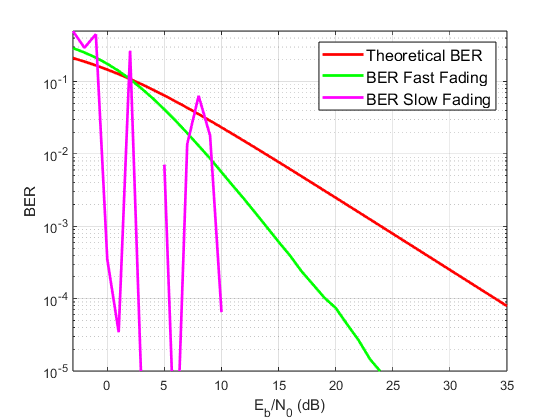
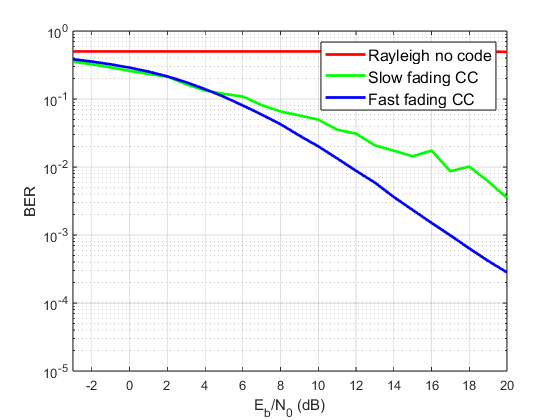
Update assignment 5 solutions

diff --git a/Aula05-CodigosCorretoresDeErrosERetransmissao29-07/Assignment5.m b/Aula05-CodigosCorretoresDeErrosERetransmissao29-07/Assignment5.m
@@ -12,7 +12,12 @@ Eb = 1;          % energia de bit
 
 %-------------------------------------------------------------------------
 SNR = 10.^(SNRdB/10);   % SNR linear
+ber_rayleigh = zeros(1, length(SNR));
+ber_no_retx = zeros(1, length(SNR));
+ber_fast = zeros(1, length(SNR));
+fer_rayleigh = zeros(1, length(SNR));
 fer_no_retx = zeros(1, length(SNR));
+fer_fast = zeros(1, length(SNR));
 fer_one_retx = zeros(1, length(SNR));
 fer_two_retx = zeros(1, length(SNR));
 nn = (randn(1, K) + 1i*randn(1, K)); % ruído para um bloco
@@ -26,9 +31,14 @@ for i = 1:length(SNR)
     N0 = Eb / SNR(i);  % SNR = Eb/N0 ==> N0 = Eb/SNR
     
     % Inicializa contadores de erro
-    errors_no_retx = 0;
-    errors_one_retx = 0;
-    errors_two_retx = 0;
+    bit_errors_rayleigh = 0;
+    bit_errors_slow = 0;
+    bit_errors_fast = 0;
+    frame_errors_rayleigh = 0;
+    frame_errors_no_retx = 0;
+    frame_errors_fast = 0;
+    frame_errors_one_retx = 0;
+    frame_errors_two_retx = 0;
     
     for frame = 1:nFrames
         % Gera sequência aleatória de bits
@@ -40,64 +50,111 @@ for i = 1:length(SNR)
         x_cc = 2 * m_cc - 1; % BPSK
         
         % Sem retransmissões
+        h = sqrt(1/2) * (randn(1, length(m)) + 1i*randn(1, length(m))); % Canal de desvanecimento lento
+        x = 2 * m - 1; %BPSK
+        n = sqrt((0.5/R) * N0) * (randn(1, length(m)) + 1i*randn(1, length(m))); % Cria array base do ruído
+        y = h .* x + n;
+        y_eq = y ./ h; % Equalização
+        w = real(y_eq > 0);
+        frame_bit_errors_rayleigh = sum(w ~= m);
+        if frame_bit_errors_rayleigh > 0
+            frame_errors_rayleigh = frame_errors_rayleigh + 1;
+            bit_errors_rayleigh = bit_errors_rayleigh + frame_errors_rayleigh;
+        end
+
+        % Sem retransmissões
         h_slow = sqrt(1/2) * (randn + 1i*randn); % Canal de desvanecimento lento
         y_slow = h_slow * x_cc + n_cc;
         y_slow_eq = y_slow / h_slow; % Equalização
         w_slow = real(y_slow_eq > 0);
         decodedData_slow = vitdec(w_slow, trellis, tbdepth, 'trunc', 'hard');
-        err_slow = sum(decodedData_slow ~= m);
-        if err_slow > 0
-            errors_no_retx = errors_no_retx + 1;
+        frame_bit_errors = sum(decodedData_slow ~= m);
+        if frame_bit_errors > 0
+            frame_errors_no_retx = frame_errors_no_retx + 1;
+            bit_errors_slow = bit_errors_slow + frame_bit_errors;
         end
         
-        % Com possibilidade de até uma retransmissão (HARQ simples)
-        for attempt = 1:2
-            h_slow = sqrt(1/2) * (randn + 1i*randn);
-            y_slow = h_slow * x_cc + n_cc;
-            y_slow_eq = y_slow / h_slow;
-            w_slow = real(y_slow_eq > 0);
-            decodedData_slow = vitdec(w_slow, trellis, tbdepth, 'trunc', 'hard');
-            err_slow = sum(decodedData_slow ~= m);
-            if err_slow == 0
-                break;
-            end
-        end
-        if err_slow > 0
-            errors_one_retx = errors_one_retx + 1;
+        % Sem retransmissões
+        h_fast = sqrt(1/2) * (randn(1, length(m_cc)) + 1i*randn(1, length(m_cc))); % Canal de desvanecimento lento
+        y_fast = h_fast .* x_cc + n_cc;
+        y_fast_eq = y_fast ./ h_fast; % Equalização
+        w_fast = real(y_fast_eq > 0);
+        decodedData_fast = vitdec(w_fast, trellis, tbdepth, 'trunc', 'hard');
+        frame_bit_errors_fast = sum(decodedData_fast ~= m);
+        if frame_bit_errors_fast > 0
+            frame_errors_fast = frame_errors_fast + 1;
+            bit_errors_fast = bit_errors_fast + frame_bit_errors_fast;
         end
         
-        % Com possibilidade de até duas retransmissões (HARQ simples)
-        for attempt = 1:3
-            h_slow = sqrt(1/2) * (randn + 1i*randn);
-            y_slow = h_slow * x_cc + n_cc;
-            y_slow_eq = y_slow / h_slow;
-            w_slow = real(y_slow_eq > 0);
-            decodedData_slow = vitdec(w_slow, trellis, tbdepth, 'trunc', 'hard');
-            err_slow = sum(decodedData_slow ~= m);
-            if err_slow == 0
-                break;
-            end
-        end
-        if err_slow > 0
-            errors_two_retx = errors_two_retx + 1;
-        end
+        % % Com possibilidade de até uma retransmissão (HARQ simples)
+        % for attempt = 1:2
+        %     h_slow = sqrt(1/2) * (randn + 1i*randn);
+        %     y_slow = h_slow * x_cc + n_cc;
+        %     y_slow_eq = y_slow / h_slow;
+        %     w_slow = real(y_slow_eq > 0);
+        %     decodedData_slow = vitdec(w_slow, trellis, tbdepth, 'trunc', 'hard');
+        %     frame_bit_errors = sum(decodedData_slow ~= m);
+        %     if frame_bit_errors == 0
+        %         break;
+        %     end
+        % end
+        % if frame_bit_errors > 0
+        %     frame_errors_one_retx = frame_errors_one_retx + 1;
+        % end
+        
+        % % Com possibilidade de até duas retransmissões (HARQ simples)
+        % for attempt = 1:3
+        %     h_slow = sqrt(1/2) * (randn + 1i*randn);
+        %     y_slow = h_slow * x_cc + n_cc;
+        %     y_slow_eq = y_slow / h_slow;
+        %     w_slow = real(y_slow_eq > 0);
+        %     decodedData_slow = vitdec(w_slow, trellis, tbdepth, 'trunc', 'hard');
+        %     frame_bit_errors = sum(decodedData_slow ~= m);
+        %     if frame_bit_errors == 0
+        %         break;
+        %     end
+        % end
+        % if frame_bit_errors > 0
+        %     frame_errors_two_retx = frame_errors_two_retx + 1;
+        % end
     end
     
     % Cálculo da FER
-    fer_no_retx(i) = errors_no_retx / nFrames;
-    fer_one_retx(i) = errors_one_retx / nFrames;
-    fer_two_retx(i) = errors_two_retx / nFrames;
+    ber_rayleigh(i) = bit_errors_rayleigh / (K*nFrames);
+    ber_no_retx(i) = bit_errors_slow / (K*nFrames);
+    ber_fast(i) = bit_errors_fast / (K*nFrames);
+    fer_rayleigh(i) = frame_errors_rayleigh / nFrames;
+    fer_no_retx(i) = frame_errors_no_retx / nFrames;
+    fer_fast(i) = frame_errors_fast / nFrames;
+    % fer_one_retx(i) = frame_errors_one_retx / nFrames;
+    % fer_two_retx(i) = frame_errors_two_retx / nFrames;
 end
+
+% Plot BER
+figure
+semilogy(SNRdB, ber_rayleigh, 'r-', 'LineWidth', 2);
+hold on;
+semilogy(SNRdB, ber_no_retx, 'g-', 'LineWidth', 2);
+semilogy(SNRdB, ber_fast, 'b-', 'LineWidth', 2);
+
+xlabel('E_b/N_0 (dB)');
+ylabel('BER');
+legend({'Rayleigh no code', 'Slow fading CC', 'Fast fading CC'}, 'FontSize', 12);
+axis([-3 20 10^-5 1]);
+grid on;
 
 % Plot FER
 figure
-semilogy(SNRdB, fer_no_retx, 'r-', 'LineWidth', 2);
+semilogy(SNRdB, fer_rayleigh, 'r-', 'LineWidth', 2);
 hold on;
-semilogy(SNRdB, fer_one_retx, 'g-', 'LineWidth', 2);
-semilogy(SNRdB, fer_two_retx, 'b-', 'LineWidth', 2);
+semilogy(SNRdB, fer_no_retx, 'g-', 'LineWidth', 2);
+semilogy(SNRdB, fer_fast, 'b-', 'LineWidth', 2);
+% semilogy(SNRdB, fer_one_retx, 'g-', 'LineWidth', 2);
+% semilogy(SNRdB, fer_two_retx, 'b-', 'LineWidth', 2);
 
 xlabel('E_b/N_0 (dB)');
 ylabel('FER');
-legend({'Sem Retransmissão', '1 Retransmissão', '2 Retransmissões'}, 'FontSize', 12);
-axis([-3 20 10^-5 1]);
+legend({'Rayleigh no code', 'Slow fading', 'Fast fading'}, 'FontSize', 12);
+% legend({'Sem Retransmissão', '1 Retransmissão', '2 Retransmissões'}, 'FontSize', 12);
+axis([-3 20 10^-5 2]);
 grid on;
